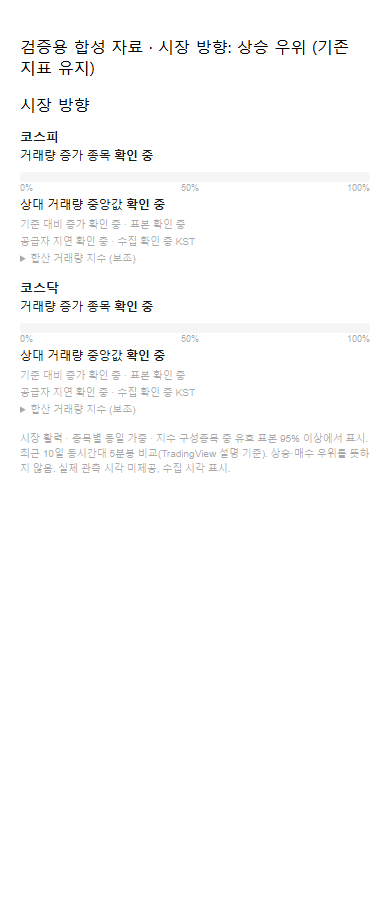
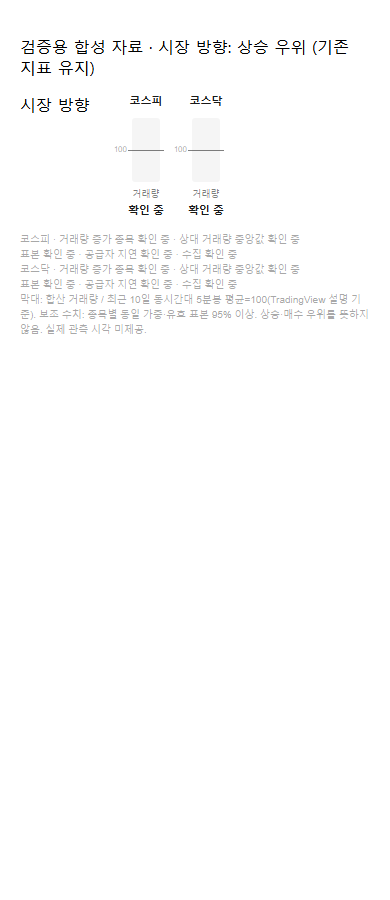
Preserve original volume graphs and add participation as auxiliary text

diff --git a/js/skin-main.js b/js/skin-main.js
@@ -1415,10 +1415,9 @@ document.documentElement.classList.add('skin-ready');
             && number(participation.median) && participation.median >= 0
             && integer(participation.increased) && participation.increased >= 0 && participation.increased <= participation.eligible
             && Math.abs(participation.ratio - participation.increased / participation.eligible) < .000001;
-          valid = valid && fresh && volume.total === entry.total && integer(volume.eligible)
-            && integer(volume.total) && volume.eligible <= volume.total && volume.eligible / volume.total >= .95;
           return {label: definition[1], volume: valid ? volume : null, participation: ready ? participation : null,
-            entry: entry, status: entry && (entry.status === 'stale' || !fresh ? 'stale' : entry.status)};
+            entry: entry, status: entry && entry.status,
+            participationStatus: entry && (entry.status === 'stale' || !fresh ? 'stale' : entry.status)};
         }
         return {label: definition[1], volume: valid ? volume : null, status: entry && entry.status};
       });
@@ -1438,11 +1437,6 @@ document.documentElement.classList.add('skin-ready');
       var market = homeMarketSession().market === 'us' ? 'us' : 'domestic';
       target.hidden = market === 'us' && !usRegularSessionState().open;
       var models = homeParticipationModel(market, (latestHomeParticipation || {})[market]);
-      target.classList.toggle('is-domestic', market === 'domestic');
-      if (market === 'domestic') {
-        renderDomesticParticipation(target, models);
-        return;
-      }
       var scale = homeVolumeScale(models);
       target.innerHTML = models.map(function (model) {
         var volume = model.volume;
@@ -1462,13 +1456,15 @@ document.documentElement.classList.add('skin-ready');
       if (basis) {
         basis.hidden = target.hidden;
         basis.textContent = '거래량: 지수 구성종목 합산 · 동시각 5분봉/최근 10거래일 평균=100 · ' + (market === 'us' ? '15분' : '20분') + ' 지연';
+        if (market === 'domestic') basis.innerHTML = renderDomesticParticipation(models);
       }
     }
 
-    function renderDomesticParticipation(target, models) {
-      target.innerHTML = models.map(function (model) {
+    function renderDomesticParticipation(models) {
+      // Supplementary text stays outside the original chart grid and its 100-based scale.
+      return models.map(function (model) {
         var p = model.participation, entry = model.entry;
-        var state = model.status === 'stale' ? '갱신 지연' : '확인 중';
+        var state = model.participationStatus === 'stale' ? '갱신 지연' : '확인 중';
         var percent = p ? (p.ratio * 100).toFixed(1).replace(/\.0$/, '') : null;
         var sample = entry && entry.volumeParticipation;
         var counts = sample && Number.isInteger(sample.eligible) && Number.isInteger(sample.total)
@@ -1476,24 +1472,14 @@ document.documentElement.classList.add('skin-ready');
         var delay = entry && typeof entry.delaySeconds === 'number' && isFinite(entry.delaySeconds) && entry.delaySeconds >= 0
           ? (entry.delaySeconds > 0 ? '공급자 ' + (entry.delaySeconds / 60) + '분 지연' : '공급자 실시간 모드') : '공급자 지연 확인 중';
         var stamp = entry ? Date.parse(entry.retrievedAt) : NaN;
-        var time = isFinite(stamp) ? new Date(stamp).toLocaleString('ko-KR', {timeZone: 'Asia/Seoul', hour12: false}) : '확인 중';
-        var aggregate = model.volume ? model.volume.index100.toFixed(1) + ' / 100' : state;
-        return '<section class="hmp-item"><div class="hmp-heading">' + escapeHomeHtml(model.label) + '</div>'
-          + '<div class="hmp-activity">거래량 증가 종목 <b>' + (p ? percent + '%' : state) + '</b></div>'
-          + '<div class="hmp-ratio-track" role="img" aria-label="' + escapeHomeHtml(model.label + ' 거래량 증가 종목 ' + (p ? percent + '%' : state)) + '">'
-          + (p ? '<i style="width:' + (p.ratio * 100).toFixed(2) + '%"></i>' : '') + '</div>'
-          + '<div class="hmp-axis"><span>0%</span><span>50%</span><span>100%</span></div>'
-          + '<div class="hmp-intensity">상대 거래량 중앙값 <b>' + (p ? p.median.toFixed(2) + '배' : state) + '</b></div>'
-          + '<div class="hmp-note">기준 대비 증가 ' + (p ? p.increased + ' / ' + p.eligible + '종목' : state) + ' · ' + counts + '</div>'
-          + '<div class="hmp-note">' + escapeHomeHtml(delay + ' · 수집 ' + time + ' KST') + '</div>'
-          + '<details class="hmp-note"><summary>합산 거래량 지수 (보조)</summary><span>' + escapeHomeHtml(aggregate)
-          + ' · 유효 거래량 합계 / 기준 거래량 합계 × 100</span></details></section>';
-      }).join('');
-      var basis = dashboardSection.querySelector('[data-participation-basis]');
-      if (basis) {
-        basis.hidden = false;
-        basis.textContent = '시장 활력 · 종목별 동일 가중 · 지수 구성종목 중 유효 표본 95% 이상에서 표시. 최근 10일 동시간대 5분봉 비교(TradingView 설명 기준). 상승·매수 우위를 뜻하지 않음. 실제 관측 시각 미제공, 수집 시각 표시.';
-      }
+        var time = isFinite(stamp) ? new Date(stamp).toLocaleString('ko-KR', {timeZone: 'Asia/Seoul', hour12: false}) + ' KST' : '확인 중';
+        return '<div data-volume-participation="' + (model.label === '코스피' ? 'KOSPI' : 'KOSDAQ') + '">'
+          + escapeHomeHtml(model.label) + ' · 거래량 증가 종목 ' + (p ? percent + '%' : state)
+          + ' · 상대 거래량 중앙값 ' + (p ? p.median.toFixed(2) + '배' : state)
+          + '<br>' + (p ? '기준 대비 증가 ' + p.increased + ' / ' + p.eligible + '종목 · ' : '') + escapeHomeHtml(counts)
+          + ' · ' + escapeHomeHtml(delay + ' · 수집 ' + time) + '</div>';
+      }).join('') + '<div>막대: 합산 거래량 / 최근 10일 동시간대 5분봉 평균=100(TradingView 설명 기준). '
+        + '보조 수치: 종목별 동일 가중·유효 표본 95% 이상. 상승·매수 우위를 뜻하지 않음. 실제 관측 시각 미제공.</div>';
     }
 
     function loadDomesticParticipation() {

diff --git a/test/test_market_participation_browser.js b/test/test_market_participation_browser.js
@@ -4,26 +4,31 @@ const {render}=require('./test_market_participation_bars');
 const {chromium}=require('playwright');
 (async()=>{
  const dir='docs/qa/domestic-participation-2026-10-28';fs.mkdirSync(dir,{recursive:true});
- const old=cp.execFileSync('git',['show','origin/master:js/skin-main.js'],{encoding:'utf8'});
+ const old=cp.execFileSync('git',['show','1182b05b:js/skin-main.js'],{encoding:'utf8'});
  const target={innerHTML:''},basis={};const c={isFinite,latestHomeParticipation:{domestic:{byIndex:{KOSPI:entry(),KOSDAQ:entry(1,.8)}}},homeMarketSession:()=>({market:'domestic'}),dashboardSection:{querySelector:s=>s==='[data-home-participation]'?target:basis}};
  vm.createContext(c);vm.runInContext(['escapeHomeHtml','homeParticipationModel','homeVolumeScale','renderMarketParticipation'].map(n=>extract(n,old)).join('\n'),c);c.renderMarketParticipation();
- const oldCss=cp.execFileSync('git',['show','origin/master:css/home-market-board.css'],{encoding:'utf8'});
+ const oldCss=cp.execFileSync('git',['show','1182b05b:css/home-market-board.css'],{encoding:'utf8'});
  const browser=await chromium.launch({headless:true,channel:process.env.PLAYWRIGHT_CHANNEL || 'msedge'});
  for(const width of [1440,390,360]){
    const page=await browser.newPage({viewport:{width,height:900}});
+   let originalPixels, originalGeometry;
    for(const state of ['before','after','missing','stale']){
      const result=state==='before'?{html:target.innerHTML,basis:basis.textContent}:state==='missing'?render(null,null):state==='stale'?render({...entry(),status:'stale'}):render();
-     await page.setContent('<html><head><meta charset="utf-8"><style>:root{--font-ui:Arial;--font-data:Arial;--hmb-ink:#222;--hmb-mute:#667;--hmb-faint:#667;--hmb-flat:#aaa;--ui-paragraph-gap:14px;--num-up:red;--num-down:blue}*{box-sizing:border-box}body{margin:0;padding:20px}.home-editorial-page{max-width:1000px;margin:auto}'+(state==='before'?oldCss:fs.readFileSync('css/home-market-board.css','utf8'))+'</style></head><body id="tt-body-index"><main class="home-editorial-page"><section id="homeMarketBoard" class="hmb2"><p>검증용 합성 자료 · 시장 방향: 상승 우위 (기존 지표 유지)</p><div class="hmb2-verdict has-market-breadth"><div class="hmb2-direction">시장 방향</div><div data-home-participation class="hmb2-participation '+(state==='before'?'':'is-domestic')+'">'+result.html+'</div><div class="hmp-basis hmp-note">'+result.basis+'</div></div></section></main></body></html>');
+     await page.setContent('<html><head><meta charset="utf-8"><style>:root{--font-ui:Arial;--font-data:Arial;--hmb-ink:#222;--hmb-mute:#667;--hmb-faint:#667;--hmb-flat:#aaa;--ui-paragraph-gap:14px;--num-up:red;--num-down:blue}*{box-sizing:border-box}body{margin:0;padding:20px}.home-editorial-page{max-width:1000px;margin:auto}'+(state==='before'?oldCss:fs.readFileSync('css/home-market-board.css','utf8'))+'</style></head><body id="tt-body-index"><main class="home-editorial-page"><section id="homeMarketBoard" class="hmb2"><p>검증용 합성 자료 · 시장 방향: 상승 우위 (기존 지표 유지)</p><div class="hmb2-verdict has-market-breadth"><div class="hmb2-direction">시장 방향</div><div data-home-participation class="hmb2-participation '+''+'">'+result.html+'</div><div class="hmp-basis hmp-note">'+result.basis+'</div></div></section></main></body></html>');
      assert(await page.evaluate(()=>document.documentElement.scrollWidth<=innerWidth),state+' overflow '+width);
-     if(state==='after'){
-       const tracks=await page.locator('.hmp-ratio-track').evaluateAll(nodes=>nodes.map(n=>n.getBoundingClientRect().toJSON()));assert.equal(tracks.length,2);
-       assert(Math.abs(tracks[0].width-tracks[1].width)<1);
-       if(width<600)assert(tracks[1].y>tracks[0].y);
-       await page.locator('summary').first().click();assert(await page.locator('details').first().evaluate(n=>n.open));
+     if(state==='before' || state==='after'){
+       const chart=page.locator('[data-home-participation]');
+       const pixels=await chart.screenshot({animations:'disabled'});
+       const geometry=await chart.locator('.hmp-column-track,.hmp-baseline,.hmp-column').evaluateAll(nodes=>nodes.map(n=>{
+         const r=n.getBoundingClientRect(),s=getComputedStyle(n);
+         return {x:r.x,y:r.y,width:r.width,height:r.height,color:s.backgroundColor,animation:s.animation,transition:s.transition};
+       }));
+       if(state==='before'){originalPixels=pixels;originalGeometry=geometry;}
+       else {assert.deepEqual(geometry,originalGeometry,'original chart layout/color/animation at '+width);assert(pixels.equals(originalPixels),'pixel-identical original chart at '+width);}
      }
      await page.screenshot({path:dir+'/'+state+'-'+width+'.png',fullPage:true});
    }
    await page.close();
  }
- await browser.close();console.log('PASS browser: before/after/missing/stale at 1440/390/360, no overflow, equal axes, mobile stack, details');
+ await browser.close();console.log('PASS browser: before/after/missing/stale at 1440/390/360, pixel-identical original chart, dimensions/colors/animation/baseline/side-by-side preserved, no overflow');
 })().catch(e=>{console.error(e);process.exit(1)});

diff --git a/test/test_market_participation_bars.js b/test/test_market_participation_bars.js
@@ -1,18 +1,23 @@
 const {extract,entry}=require('./test_market_participation');
 const vm=require('node:vm'),assert=require('node:assert/strict');
 function render(e=entry(),other=entry(1,.8)){
- const target={innerHTML:'',classList:{toggle(){}},hidden:false},basis={};
+ const target={innerHTML:'',hidden:false},basis={};
  const c={isFinite,latestHomeParticipation:{domestic:{byIndex:{KOSPI:e,KOSDAQ:other}}},homeMarketSession:()=>({market:'domestic'}),usRegularSessionState:()=>({open:true}),dashboardSection:{querySelector:s=>s==='[data-home-participation]'?target:basis}};
- vm.createContext(c);vm.runInContext(['escapeHomeHtml','homeParticipationModel','homeVolumeScale','renderDomesticParticipation','renderMarketParticipation'].map(n=>extract(n)).join('\n'),c);c.renderMarketParticipation();return {html:target.innerHTML,basis:basis.textContent};
+ vm.createContext(c);vm.runInContext(['escapeHomeHtml','homeParticipationModel','homeVolumeScale','renderDomesticParticipation','renderMarketParticipation'].map(n=>extract(n)).join('\n'),c);c.renderMarketParticipation();return {html:target.innerHTML,basis:basis.innerHTML||basis.textContent};
 }
-for(const ratio of [0,.5,1]){const {html}=render(entry(ratio));assert(html.includes('width:'+(ratio*100).toFixed(2)+'%'));assert(html.includes('>'+ratio*100+'%</b>'));assert(html.includes('1.00배'));assert(html.includes('공급자 20분 지연'));assert(html.includes('합산 거래량 지수 (보조)'));assert(!html.includes('is-up'));}
-assert(render(entry()).html.includes('0.80배'));
-assert(render({...entry(),status:'stale'}).html.includes('갱신 지연'));
-assert(render(null,null).html.includes('확인 중'));
+for(const ratio of [0,.5,1]){const {html,basis}=render(entry(ratio));assert(basis.includes('거래량 증가 종목 '+ratio*100+'%'));assert(basis.includes('1.00배'));assert(basis.includes('공급자 20분 지연'));assert(html.includes('>110</b> / 100'));assert(!html.includes('hmp-ratio-track'));}
+const a=entry(),b=entry();a.volumeIndex.index100=110;b.volumeIndex.index100=90;
+const equal=render(a,b).html;assert.match(equal,/is-up" style="height:25\.00%/);assert.match(equal,/is-down" style="height:25\.00%/);
+a.volumeIndex.index100=100;b.volumeIndex.index100=100;assert.doesNotMatch(render(a,b).html,/class="hmp-column /);
+a.volumeIndex.index100=0;assert.match(render(a,b).html,/>0<\/b> \/ 100/);
+// Participation never changes chart values, geometry or scale.
+const low=entry(0,.2),high=entry(1,10000);assert.equal(render(low).html,render(high).html);
+low.volumeParticipation.eligible=94;assert(render(low).basis.includes('확인 중'));assert.equal(render(low).html,render(high).html);
+assert(render({...entry(),status:'stale'}).basis.includes('갱신 지연'));
+assert(render(null,null).basis.includes('확인 중'));
 assert(render(entry()).basis.includes('실제 관측 시각 미제공'));
-console.log('PASS neutral horizontal bars, median, auxiliary aggregate, delay and missing data');
+console.log('PASS original aggregate bars and independent supplementary participation text');
 module.exports={render};
-// Exercise the existing transport's rejection path; it must not retain numeric HTML.
 (async()=>{
  let rendered=false; const c={latestHomeParticipation:{domestic:{old:true}},window:{NineAPI:{marketParticipation:()=>Promise.reject(new Error('offline'))}},renderMarketParticipation(){rendered=true;}};
  vm.createContext(c);vm.runInContext(extract('loadDomesticParticipation'),c);c.loadDomesticParticipation();await new Promise(resolve=>setImmediate(resolve));assert.equal(c.latestHomeParticipation.domestic,null);assert.equal(rendered,true);

diff --git a/css/home-market-board.css b/css/home-market-board.css
@@ -202,16 +202,7 @@ body#tt-body-index .home-editorial-page #homeMarketBoard.hmb2 .hmp-note { margin
 
 body#tt-body-index .home-editorial-page #homeMarketBoard.hmb2 .hmb2-verdict > .hmp-basis { grid-column: 1 / -1; order: 4; margin-top: 0; }
 body#tt-body-index .home-editorial-page #homeMarketBoard.hmb2 .hmb2-verdict > .hmp-basis[hidden] { display: none; }
-body#tt-body-index .home-editorial-page #homeMarketBoard.hmb2 .hmb2-verdict > .hmb2-participation.is-domestic { grid-column: 1 / -1; width: 100%; gap: var(--ui-paragraph-gap); }
-body#tt-body-index .home-editorial-page #homeMarketBoard.hmb2 .is-domestic .hmp-item { text-align: left; }
-body#tt-body-index .home-editorial-page #homeMarketBoard.hmb2 .is-domestic .hmp-heading { font-size: 13px; }
-body#tt-body-index .home-editorial-page #homeMarketBoard.hmb2 .hmp-activity, .hmp-intensity { color: var(--hmb-ink); font: 400 12px/1.6 var(--font-ui); }
-body#tt-body-index .home-editorial-page #homeMarketBoard.hmb2 .hmp-ratio-track { height: 10px; margin-top: 6px; border-radius: 3px; overflow: hidden; background: color-mix(in srgb, var(--hmb-flat) 20%, var(--np-paper, #fff)); }
-body#tt-body-index .home-editorial-page #homeMarketBoard.hmb2 .hmp-ratio-track i { display: block; height: 100%; background: var(--hmb-mute); }
-body#tt-body-index .home-editorial-page #homeMarketBoard.hmb2 .hmp-axis { display: flex; justify-content: space-between; color: var(--hmb-faint); font: 400 9px/1.5 var(--font-data); }
-body#tt-body-index .home-editorial-page #homeMarketBoard.hmb2 .is-domestic summary { cursor: pointer; }
 @media (max-width: 600px) {
-body#tt-body-index .home-editorial-page #homeMarketBoard.hmb2 .hmb2-verdict > .hmb2-participation.is-domestic { grid-template-columns: minmax(0, 1fr); }
 body#tt-body-index .home-editorial-page #homeMarketBoard.hmb2 .hmb2-verdict.has-market-breadth { grid-template-columns: max-content minmax(116px, 1fr); gap: var(--ui-paragraph-gap); }
 body#tt-body-index .home-editorial-page #homeMarketBoard.hmb2 .hmb2-verdict > .hmb2-market-ratios { grid-column: 1 / -1; grid-template-columns: repeat(2, minmax(0, 1fr)); max-width: none; }
 body#tt-body-index .home-editorial-page #homeMarketBoard.hmb2 .hmb2-market-ratios > [data-us-breadth-meta] { grid-column: 1 / -1; }

diff --git a/docs/DOMESTIC_VOLUME_PARTICIPATION.md b/docs/DOMESTIC_VOLUME_PARTICIPATION.md
@@ -1,13 +1,13 @@
 # 국내 시장 거래량 참여도 — 2026-10-28
 
-홈 국내 패널만 `volumeParticipation`으로 전환한다. 미국 합산 막대, KIS 상승/하락 집계, 증시온도, 서버 응답과 캐시, 검색기와 실주문 코드는 변경하지 않는다. 기존 NineAPI.marketParticipation을 재사용한다. 별도 수집/프로세스/요청을 추가하지 않는다.
+추가 지시 반영: 국내 홈 기존 세로 막대·합산 거래량 지수 표시를 그대로 유지하고, 그래프 아래 설명 영역에 `volumeParticipation` 증가 비율·중앙값을 작은 보조 수치로 추가한다. 그래프의 중앙100과 참여 비율0~100%를 혼용하지 않는다. 기존 CSS 전체가 기준 커밋1182b05b와 동일하다. 미국 합산 막대, KIS 상승/하락 집계, 증시온도, 서버 응답과 캐시, 검색기와 실주문 코드는 변경하지 않는다. 기존 NineAPI.marketParticipation을 재사용한다. 별도 수집/프로세스/요청을 추가하지 않는다.
 
 ## 정의·품질
 
 - 증가: 상대 거래량 >1, 종목당 1표. 중앙값은 서버 값을 사용한다. 유효/구성/증가 수를 구분한다.
-- 참여도 status=ok, 지수 status=ok, basis=same-time-5m, lookbackDays=10, 정수 표본·증가수·모집단 일치, eligible/total >=95%, ratio 0~1 및 increased/eligible 일치, median 유한·0 이상을 모두 검사한다. 보조 합산 지수는 독립 검증한다.
+- 참여도 status=ok, 지수 status=ok, basis=same-time-5m, lookbackDays=10, 정수 표본·증가수·모집단 일치, eligible/total >=95%, ratio 0~1 및 increased/eligible 일치, median 유한·0 이상을 모두 검사한다. 기존 합산 지수 모델·계산·표시 조건은 그대로 유지한다. 보조 참여도 품질 판정이 기존 그래프 값/눈금/막대를 바꾸지 않는다.
 - 95%는 기존 합산 지수의 보수적 기준과 통일했다. 부족한 상대 거래량 표본의 서버 status를 변경하지 않고 홈에서 차단해 다른 소비자 계약을 유지한다.
-- 평일 KST09:00~15:40 수집 후300초, 그 외3600초 초과는 갱신 지연. 서버120초/3600초 TTL을 고려한다. 휴일에도 평일 장중 구간은 보수적으로300초 적용. 공급자 지연은 응답 delaySeconds 그대로, 수집은 retrievedAt을 KST로 표시한다. actual bar timestamp는 응답에 없으므로 시세 기준시각을 만들어내지 않는다. API 실패는 수치 제거/확인 중.
+- 보조 참여도는 평일 KST09:00~15:40 수집 후300초, 그 외3600초 초과는 갱신 지연. 서버120초/3600초 TTL을 고려한다. 휴일에도 평일 장중 구간은 보수적으로300초 적용. 공급자 지연은 응답 delaySeconds 그대로, 수집은 retrievedAt을 KST로 표시한다. actual bar timestamp는 응답에 없으므로 시세 기준시각을 만들어내지 않는다. API 실패는 기존 경로대로 수치 제거/확인 중.
 - [TradingView 공식 Screener 설명](https://www.tradingview.com/support/solutions/43000635874-how-do-we-calculate-relative-volume-and-relative-volume-at-time/)은 최근10일 동시간대5분봉 평균 비교라고 명시한다. `relative_volume_intraday|5`를 요청하는 기존 scanner 응답을 직접 확인했다. 원시 과거10일 봉·분모는 공급되지 않아 종목별 과거 기준 재계산/신규상장 이력/정지 여부/관측시각 동기성은 독립 검증 불가. 화면에는 공급자 설명 기준임을 명시한다. 누적 하루 거래량으로 설명하지 않는다.
 
 ## 실제 공급자 비교 (2026-10-28 약11:00 KST 단일 관측)
@@ -25,13 +25,13 @@
 - JS: 참여도 모델·렌더러, 0/50/100%, 중앙값0/<1/=1/>1, 비정상숫자/결측/표본94·95%, 시장격리, 오래된 수집/실패/20분지연, 합산 지수 독립성 검증 통과.
 - 초대형주2개의 상대거래량100만배·현재거래량10^15 변형: 참여비율50%/중앙값1배 불변, 합산 지수만 증가.
 - 기존 JS 회귀19파일 중18통과. `test_market_temp_heatmap.js`는 `asOfText_ is not defined` fixture 누락으로 실패. 관련 test/js/서버 파일이 origin/master와 동일함을 git diff로 확인했으며 이번 변경의 통과로 보고하지 않는다.
-- Headless Edge: 1440/390/360px × 정상/결측/지연 및 이전 화면12장. 동일 가로눈금·모바일 세로·가로넘침0·상세열기 확인. 공통 home-market-board.css와 실제 렌더 함수 사용. 비교 화면은 **합성 테스트 자료**이며 운영 사이트 화면이나 실거래 증거가 아니다. 파일: [변경 전 PC](qa/domestic-participation-2026-10-28/before-1440.png), [변경 후 PC](qa/domestic-participation-2026-10-28/after-1440.png), [모바일](qa/domestic-participation-2026-10-28/after-390.png).
+- Headless Edge: 1440/390/360px × 정상/결측/지연 및 이전 화면12장. 기준 커밋1182b05b와 비교해 **세로 막대 그래프 영역의 screenshot PNG 바이트 완전 일치**, 막대·기준선 좌표/크기/색상/animation/transition 동일, 기존 코스피·코스닥 좌우 배치 및 반응형 보존·가로넘침0을 확인했다. 참여도0/100%·표본부족이 그래프 HTML에 영향을 주지 않는 검증도 추가했다. 공통 home-market-board.css와 실제 렌더 함수 사용. 비교 화면은 **합성 테스트 자료**이며 운영 사이트 화면이나 실거래 증거가 아니다. 파일: [변경 전 PC](qa/domestic-participation-2026-10-28/before-1440.png), [변경 후 PC](qa/domestic-participation-2026-10-28/after-1440.png), [모바일](qa/domestic-participation-2026-10-28/after-390.png).
 - 재현: `node test/test_market_participation.js`, `node test/test_market_participation_bars.js`, `node test/test_market_participation_browser.js` (playwright 필요, 기본 msedge, PLAYWRIGHT_CHANNEL로 변경).
 
 ## 배포·롤백
 
-단일 PR을 master로 병합하면 기존 Pages 경로에서 JS/CSS 배포. skin.html 수동 변경 불필요. VM Python·data/ 변경 없음. 운영 VM 배포/서비스 재시작/실거래 설정 변경 명령을 실행하지 않는다. VM 타이머는 frontend-only diff에서 VM 코드 복사/재시작을 생략하지만 이전 미배포 backend 변경이나 배포 SHA 유실이 있으면 재시작 가능하므로, 이번 요청의 VM 승인 제한을 위해 master 병합 전에 이 상태를 확인해야 한다. 확인이 불가능하면 PR을 열어 둔다.
+단일 PR을 master로 병합하면 기존 Pages 경로에서 JS 배포. skin.html 수동 변경 불필요. VM Python·data/ 변경 없음. 운영 VM 배포/서비스 재시작/실거래 설정 변경 명령을 실행하지 않는다. VM 타이머는 frontend-only diff에서 VM 코드 복사/재시작을 생략하지만 이전 미배포 backend 변경이나 배포 SHA 유실이 있으면 재시작 가능하므로, 이번 요청의 VM 승인 제한을 위해 master 병합 전에 이 상태를 확인해야 한다. 확인이 불가능하면 PR을 열어 둔다.
 
-롤백은 이 PR의 단일 병합 커밋을 revert하는 PR을 master로 반영하여 Pages의 이전 JS/CSS를 복원한다. 서버 캐시·데이터·매매 설정 복원 작업은 없다. 배포 완료 여부는 PR/최종 보고에서 별도로 구분한다.
+롤백은 이 PR의 단일 병합 커밋을 revert하는 PR을 master로 반영하여 Pages의 이전 JS를 복원한다. 서버 캐시·데이터·매매 설정 복원 작업은 없다. 배포 완료 여부는 PR/최종 보고에서 별도로 구분한다.
 
 배포 경계 실측: VM `.last_deployed_sha`는 `92b7b1b2`, 작업 기준 master는 `1182b05b`다. 두 SHA 사이에 기존 backend 9파일의 미배포 변경(피드/신호 포함)이 있다. 이번 PR이 프런트만 바꿔도 master 병합은 기존 VM 타이머의 미배포 backend 배포 경로에 영향을 줄 수 있으므로 **PR 생성까지만 수행하고 병합/운영 배포는 보류**한다. 사용자 VM 별도 승인 제한을 따른다.

diff --git a/docs/WORK_HISTORY.md b/docs/WORK_HISTORY.md
@@ -1,6 +1,6 @@
-**2026-10-28 국내 홈 거래량 참여도·중앙값 (PR 검증)**
+**2026-10-28 국내 홈 기존 거래량 그래프 보존·참여도 보조 수치 (PR 검증)**
 
-국내 홈을 종목별 동일 가중 증가 비율/상대 거래량 중앙값으로 전환하고 합산 지수를 상세 보존했다. 95% 표본·수치·수집시각·지연 검증과 중립 가로 막대/모바일 세로 배치. 기존 NineAPI·CSS 토큰 재사용, 서버/매매/미국 지표 미변경. Python159+26 subtests, JS모델/렌더 및 Edge12화면 검증. 기존 증시온도 JS fixture 실패1건 별도 기록. 실제 공급자 구성805/1723 전체 유효·중복 없음, 유동성>0 필터 전후 동일. [기준·검증·화면·배포/롤백](DOMESTIC_VOLUME_PARTICIPATION.md). VM에 기존 backend 9파일 미배포를 확인해 사용자 승인 제한에 따라 PR 병합/배포 보류.
+추가 지시에 따라 volumeIndex 세로 막대·중앙100·빨강/파랑·좌우배치·합산 표시를 원본 그대로 유지하고, 설명 영역에 동일 가중 증가 비율/중앙값만 작게 추가했다. CSS는 기준1182b05b와 완전 동일. 참여도95% 표본·숫자·수집시각·지연 방어는 그래프와 독립 적용. PC1440/모바일390/360 그래프 PNG 바이트·좌표/크기/색상/애니메이션 동일 검증, Python159+26 subtests 통과. 서버/매매/증시온도 미변경. [기준·검증·화면·배포/롤백](DOMESTIC_VOLUME_PARTICIPATION.md). 기존 VM 미배포 변경으로 PR #1052 병합/배포 보류 유지.
 
 **2026-10-28 검색기 확정 전용 UI·Shadow 검증·주문 경계 통합 (운영 미적용)**
 
